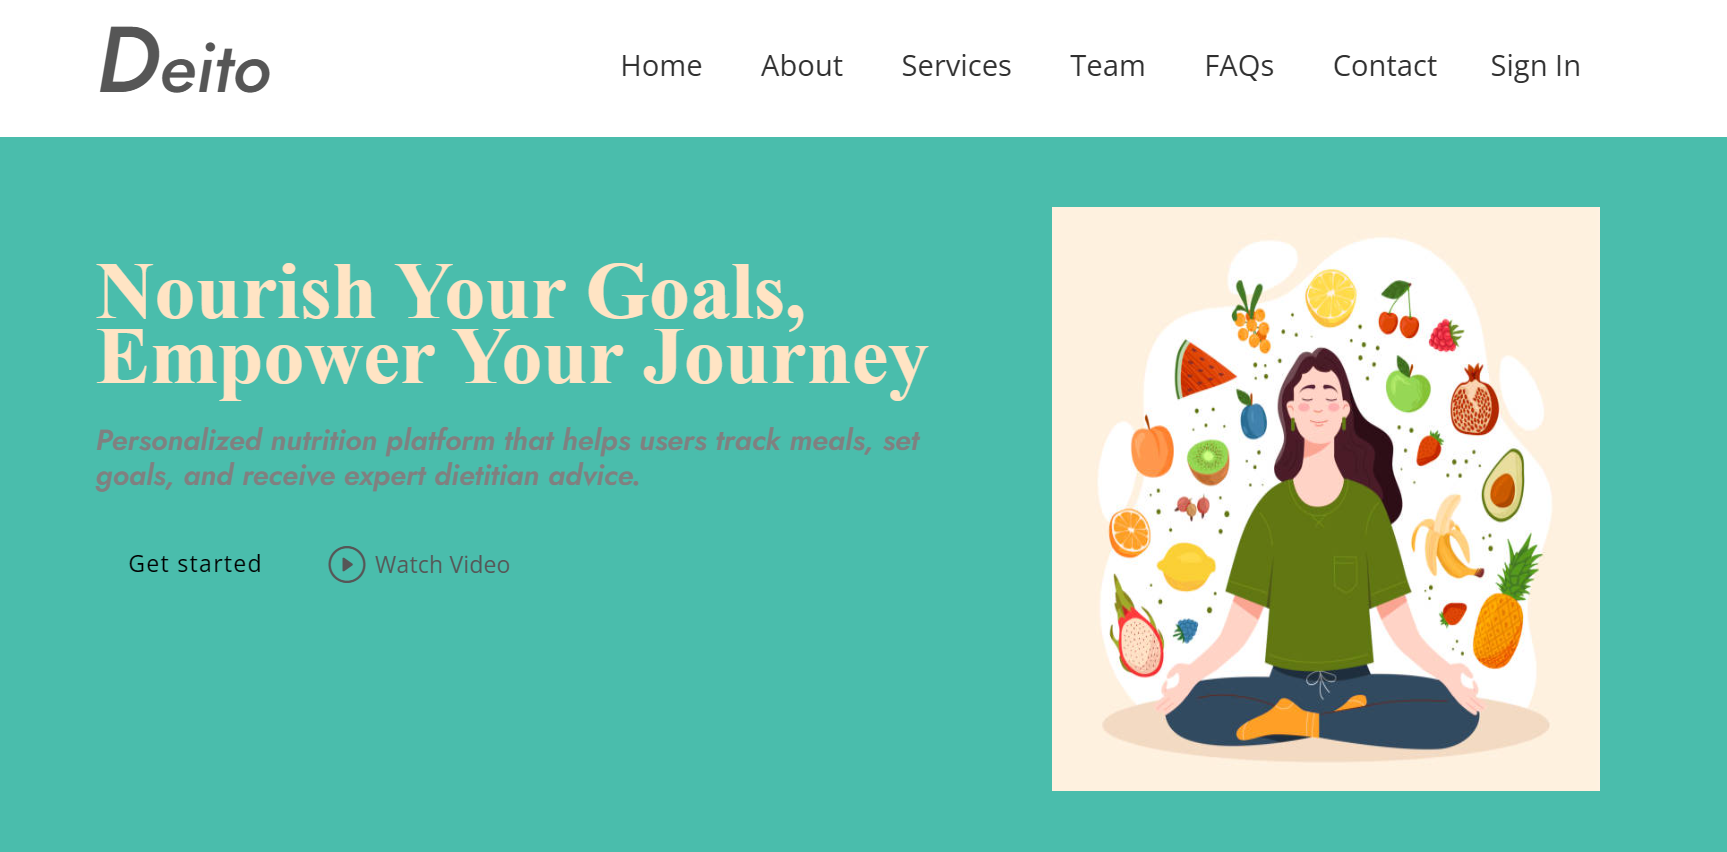
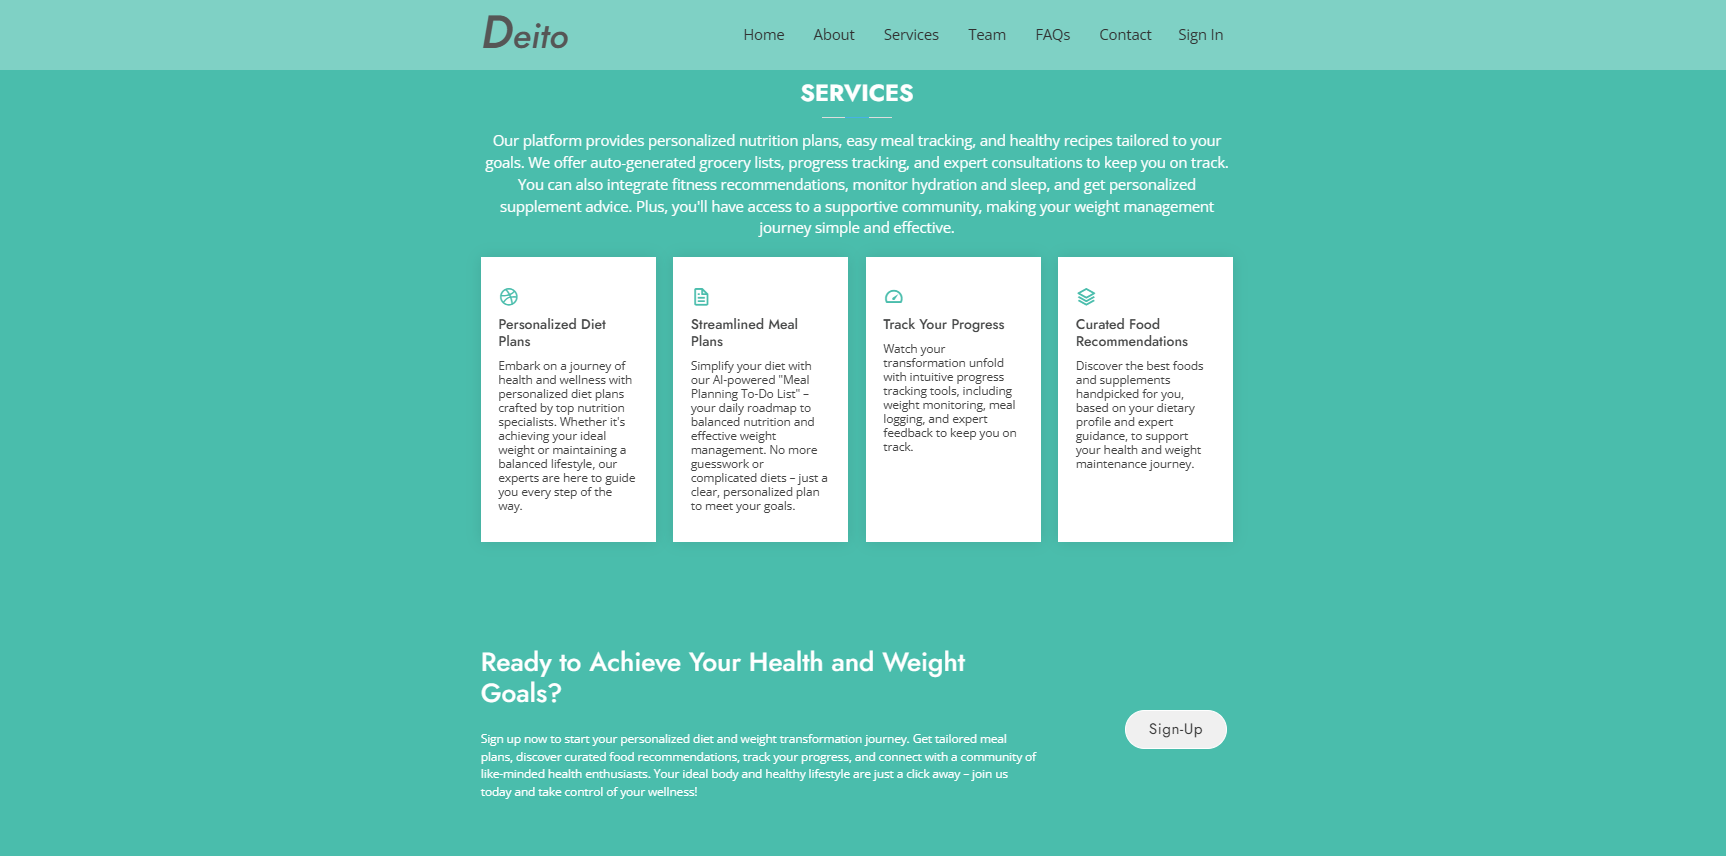
newchanges

diff --git a/assets/css/main.css b/assets/css/main.css
@@ -596,14 +596,54 @@ section,
   object-fit: cover;
 }
 
-.flip-card-back {
-  background-color: #fff;
-  transform: rotateY(180deg);
-  padding: 20px;
-  text-align: center;
-  box-shadow: 0 0 10px rgba(0, 0, 0, 0.15);
+/* hide title on the front (we keep it in markup for accessibility but hide visually) */
+.flip-card-front .project-title {
+  display: none !important;
 }
 
+/* back-side project title styling (appears just above the details) */
+.project-title-back {
+  margin: 0 0 10px;
+  font-size: 1.25rem;
+  font-weight: 700;
+  color: #000; /* black title as requested */
+  font-family: var(--heading-font);
+}
+
+/* ensure back content remains visible and readable */
+.flip-card-back {
+  background-color: #fff;
+  color: var(--default-color);
+  transform: rotateY(180deg);
+  padding: 15px;
+  text-align: center;
+  box-shadow: 0 0 10px rgba(0,0,0,0.15);
+}
+
+/* if using dark mode where .flip-card-back should contrast, override as needed */
+body.dark-mode .flip-card-back {
+  background-color: var(--surface-color);
+  color: var(--default-color);
+}
+
+/* Make GitHub button more visible */
+.flip-card-back .btn-outline-dark {
+  background-color: #24292e; /* GitHub's brand color */
+  color: white;
+  border: 2px solid #24292e;
+  padding: 8px 16px;
+  font-weight: 600;
+  margin-top: 15px;
+  transition: all 0.3s ease;
+}
+
+.flip-card-back .btn-outline-dark:hover {
+  background-color: #2c974b; /* GitHub's green color on hover */
+  border-color: #2c974b;
+  color: white;
+  transform: translateY(-2px);
+  box-shadow: 0 4px 8px rgba(0,0,0,0.1);
+}
 
 /*--------------------------------------------------------------
 # Dark Mode Toggle
@@ -1965,23 +2005,16 @@ body.dark-mode .achievement-description {
   color: var(--accent-color);
 }
 
-/*--------------------------------------------------------------
-# Starter Section Section
---------------------------------------------------------------*/
-.starter-section {
-  /* Add your styles here */
-}
 
 
 .projects {
   background: #fafafa;
   font-family: "Poppins", sans-serif;
 }
-
 .flip-card {
   background-color: transparent;
   width: 100%;
-  height: 280px;
+  height: 300px;
   perspective: 1000px;
 }
 
@@ -1990,7 +2023,7 @@ body.dark-mode .achievement-description {
   width: 100%;
   height: 100%;
   text-align: center;
-  transition: transform 0.8s;
+  transition: transform 0.6s;
   transform-style: preserve-3d;
 }
 
@@ -1998,49 +2031,18 @@ body.dark-mode .achievement-description {
   transform: rotateY(180deg);
 }
 
-.flip-card-front,
-.flip-card-back {
-  position: absolute;
-  width: 100%;
-  height: 100%;
-  backface-visibility: hidden;
-  border-radius: 15px;
-  overflow: hidden;
-}
 
 .flip-card-front {
-  background-image: var(--bg-image);
-  background-size: cover;
-  background-position: center center;
+  background-color: #f8f9fa;
   display: flex;
-  align-items: flex-end;
-  justify-content: center;
-  color: #fff;
-  font-weight: 600;
-  font-size: 1.6rem;
-  letter-spacing: 0.5px;
-  padding: 15px;
-  text-shadow: 0 2px 5px rgba(0, 0, 0, 0.4);
-  box-shadow: 0 6px 12px rgba(0, 0, 0, 0.2);
-}
-
-.flip-card-back {
-  background: #ffffff;
-  color: #000;
-  transform: rotateY(180deg);
-  border: 1px solid #ddd;
-  padding: 20px;
-  overflow: hidden;
-  display: flex;
-  flex-direction: column;
-  justify-content: center;
   align-items: center;
+  justify-content: center;
 }
 
 .project-title {
   font-size: 1.5rem;
   font-weight: 700;
-  font-family: 'Playfair Display', serif;
+  font-family: 'times new roman', times, serif;
 }
 
 .btn-outline-dark {
@@ -2054,4 +2056,33 @@ body.dark-mode .achievement-description {
 #toggleProjects:hover {
   background-color: #444;
   color: #fff;
+}
+
+.dark-mode .projects {
+    background-color: black;
+    color: white;
+}
+
+/* Reduce size of content inside flip card back */
+.flip-card-back {
+  padding: 15px;  /* reduced from 20px */
+}
+
+.flip-card-back h5 {
+  color: #f8f9fa;
+  font-family: 'Times New Roman', Times, serif;
+  font-size: 1.3rem;  /* reduced from 1.25rem */
+  margin-bottom: 8px;  /* reduced from 10px */
+}
+
+.flip-card-back p {
+  font-family: 'Arial', sans-serif;
+  font-size: 1rem;  /* reduced from default size */
+  margin-bottom: 8px;  /* reduced spacing between paragraphs */
+}
+
+.flip-card-back .btn {
+  font-size: 0.7rem;  /* smaller button text */
+  padding: 6px 12px;  /* smaller button padding */
+  margin-top: 10px;  /* reduced top margin */
 }

diff --git a/index.html b/index.html
@@ -497,13 +497,13 @@
 
       <!-- Project 1 -->
       <div class="col-md-4 project-card-container">
-        <div class="flip-card" style="--bg-image: url('assets\img\projects\sign.png');">
+        <div class="flip-card">
           <div class="flip-card-inner">
-            <div class="flip-card-front">
-              <span class="project-title">SignAssist</span>
+            <div class="flip-card-front" style="background-image: url('assets/img/projects/sign.png'); background-size: cover; background-position: center;">
+              <span class="project-title">SignAssist</span> <!-- will be hidden on front via CSS -->
             </div>
             <div class="flip-card-back">
-              <h5>SignAssist</h5>
+              <h5 class="project-title-back">SignAssist</h5> <!-- Title shown here, just above details -->
               <p>Real-time translator between voice and sign language with emotion detection.</p>
               <p><strong>Tech:</strong> Python, Flask, DeepFace</p>
               <div>
@@ -516,13 +516,13 @@
 
       <!-- Project 2 -->
       <div class="col-md-4 project-card-container">
-        <div class="flip-card" style="--bg-image: url('https://images.unsplash.com/photo-1581090700227-1e37b190418e');">
+        <div class="flip-card" style="--bg-image: url('C:\Users\aswat\Desktop\arathy\ArathyPortfolio\assets\img\projects\antibio.png');">
           <div class="flip-card-inner">
-            <div class="flip-card-front">
+            <div class="flip-card-front" style="background-image: url('assets/img/projects/antibio.png');background-size: cover; background-position: center;">
               <span class="project-title">AntibioGuard</span>
             </div>
             <div class="flip-card-back">
-              <h5>AntibioGuard</h5>
+              <h5 class="project-title-back">AntibioGuard</h5>
               <p>ML-powered tool to guide antibiotic prescriptions and reduce AMR.</p>
               <p><strong>Tech:</strong> TensorFlow, XGBoost</p>
               <div>
@@ -537,11 +537,11 @@
       <div class="col-md-4 project-card-container">
         <div class="flip-card" style="--bg-image: url('https://images.unsplash.com/photo-1556228720-195a672e6ec9');">
           <div class="flip-card-inner">
-            <div class="flip-card-front">
+             <div class="flip-card-front" style="background-image: url('assets/img/projects/glow.png');background-size: cover; background-position: center;">
               <span class="project-title">Skincare Hub</span>
             </div>
             <div class="flip-card-back">
-              <h5>Skincare Hub</h5>
+              <h5 class="project-title-back">Skincare Hub</h5>
               <p>Personalized skincare planner with routine tracking and recommendations.</p>
               <p><strong>Tech:</strong> Flask, JS, MySQL</p>
               <div>
@@ -560,11 +560,11 @@
       <div class="col-md-4 project-card-container">
         <div class="flip-card" style="--bg-image: url('https://images.unsplash.com/photo-1504384308090-c894fdcc538d');">
           <div class="flip-card-inner">
-            <div class="flip-card-front">
+             <div class="flip-card-front" style="background-image: url('assets/img/projects/dieto.png');background-size: cover; background-position: center;">
               <span class="project-title">Dieto</span>
             </div>
             <div class="flip-card-back">
-              <h5>Dieto</h5>
+              <h5 class="project-title-back">Dieto</h5>
               <p>Diet and goal tracker with custom meal plans and analytics.</p>
               <p><strong>Tech:</strong> Flask, SQLite</p>
               <div>
@@ -583,7 +583,7 @@
               <span class="project-title">SDG HelpHub</span>
             </div>
             <div class="flip-card-back">
-              <h5>SDG HelpHub</h5>
+              <h5 class="project-title-back">SDG HelpHub</h5>
               <p>UN-aligned donation portal to promote impactful giving.</p>
               <p><strong>Tech:</strong> HTML, Bootstrap, MySQL</p>
               <div>
